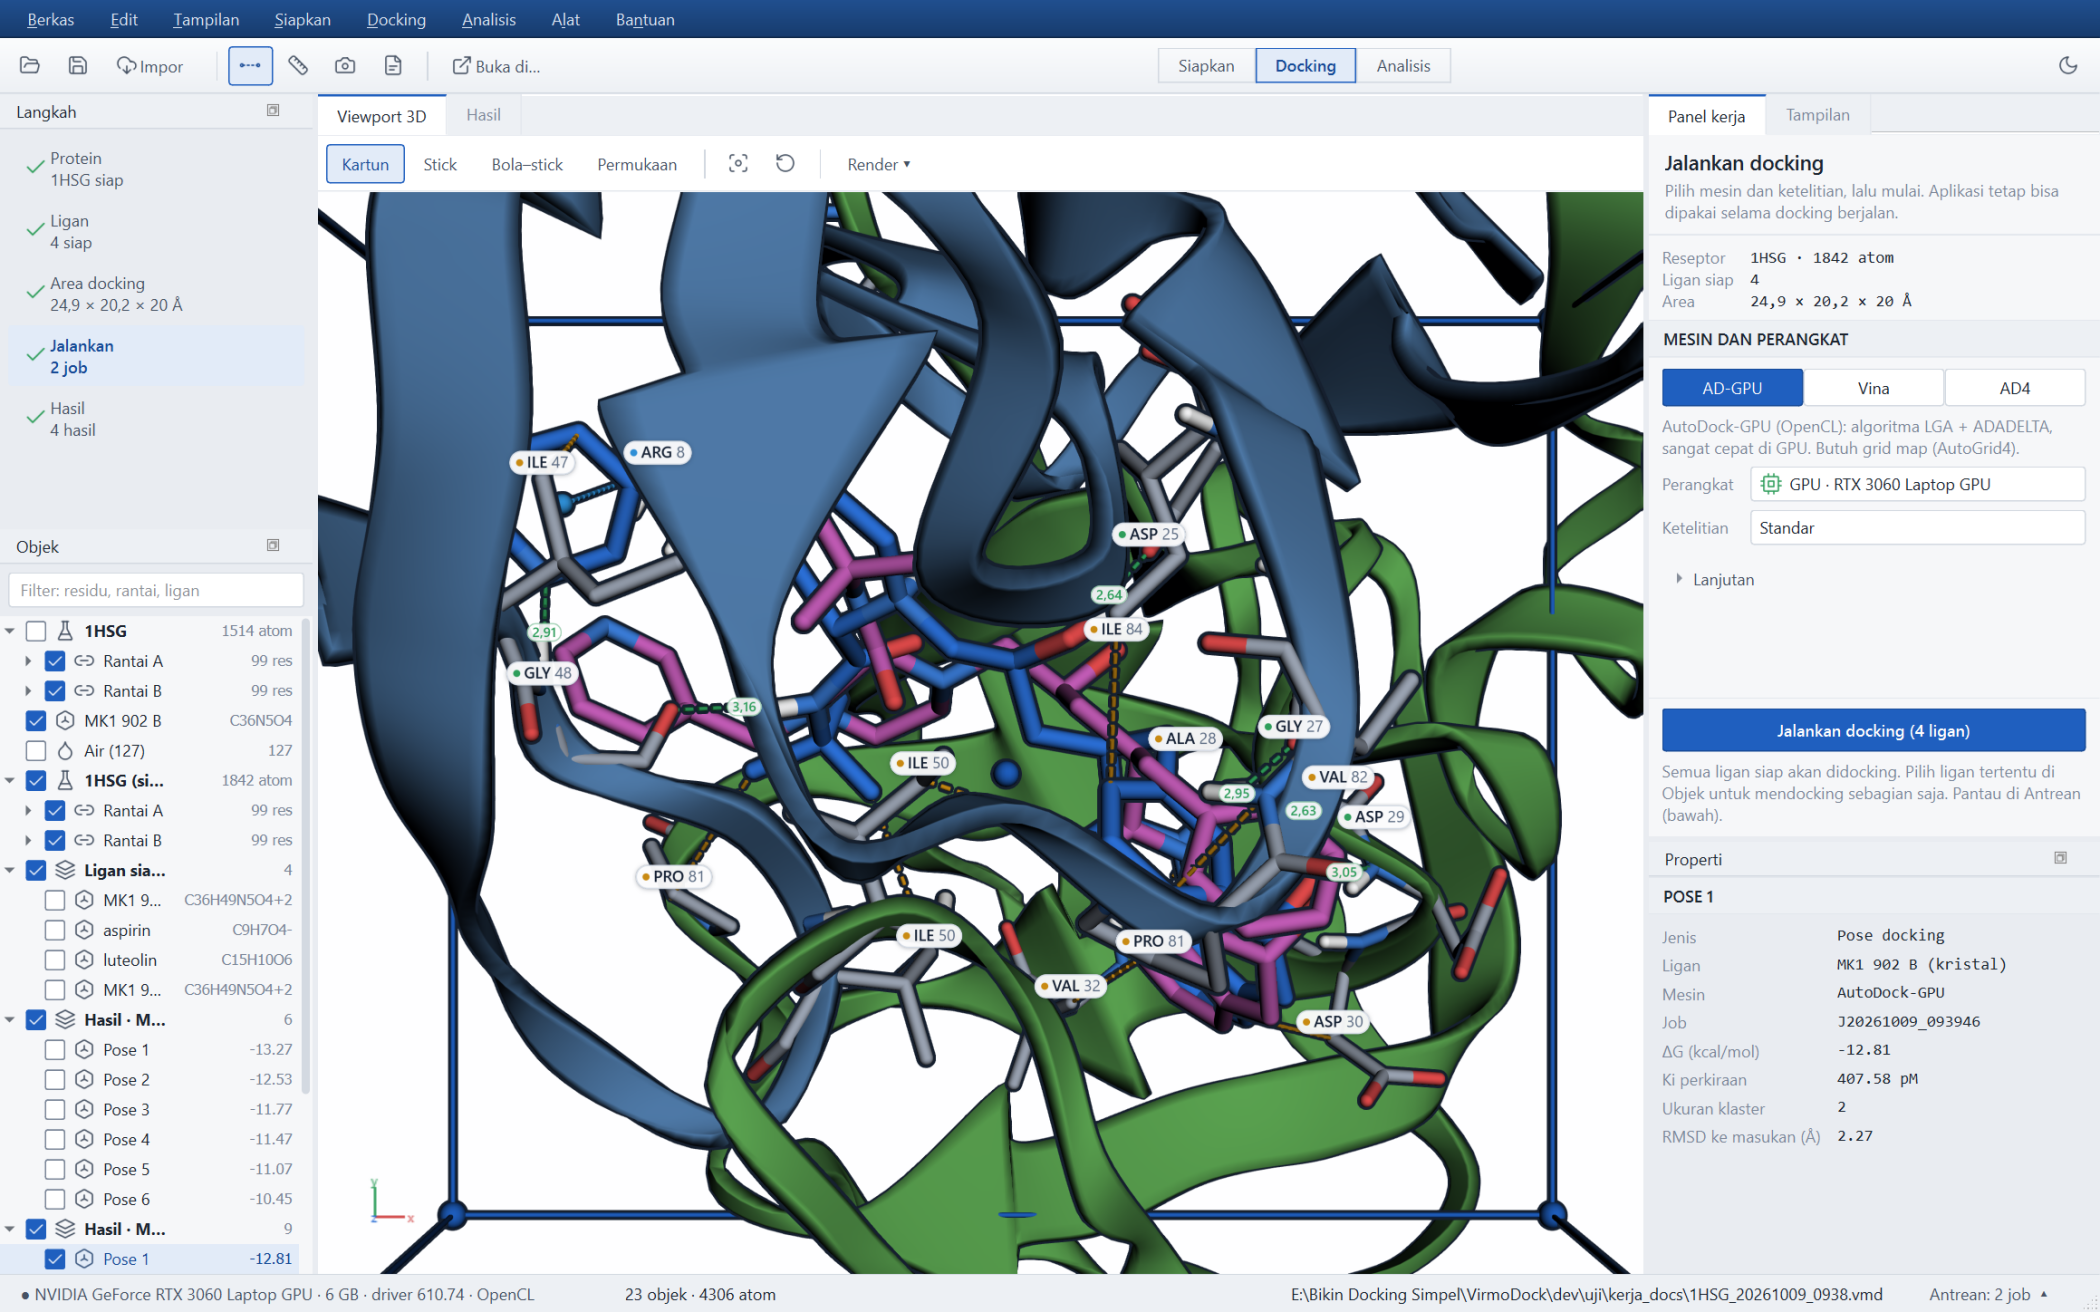
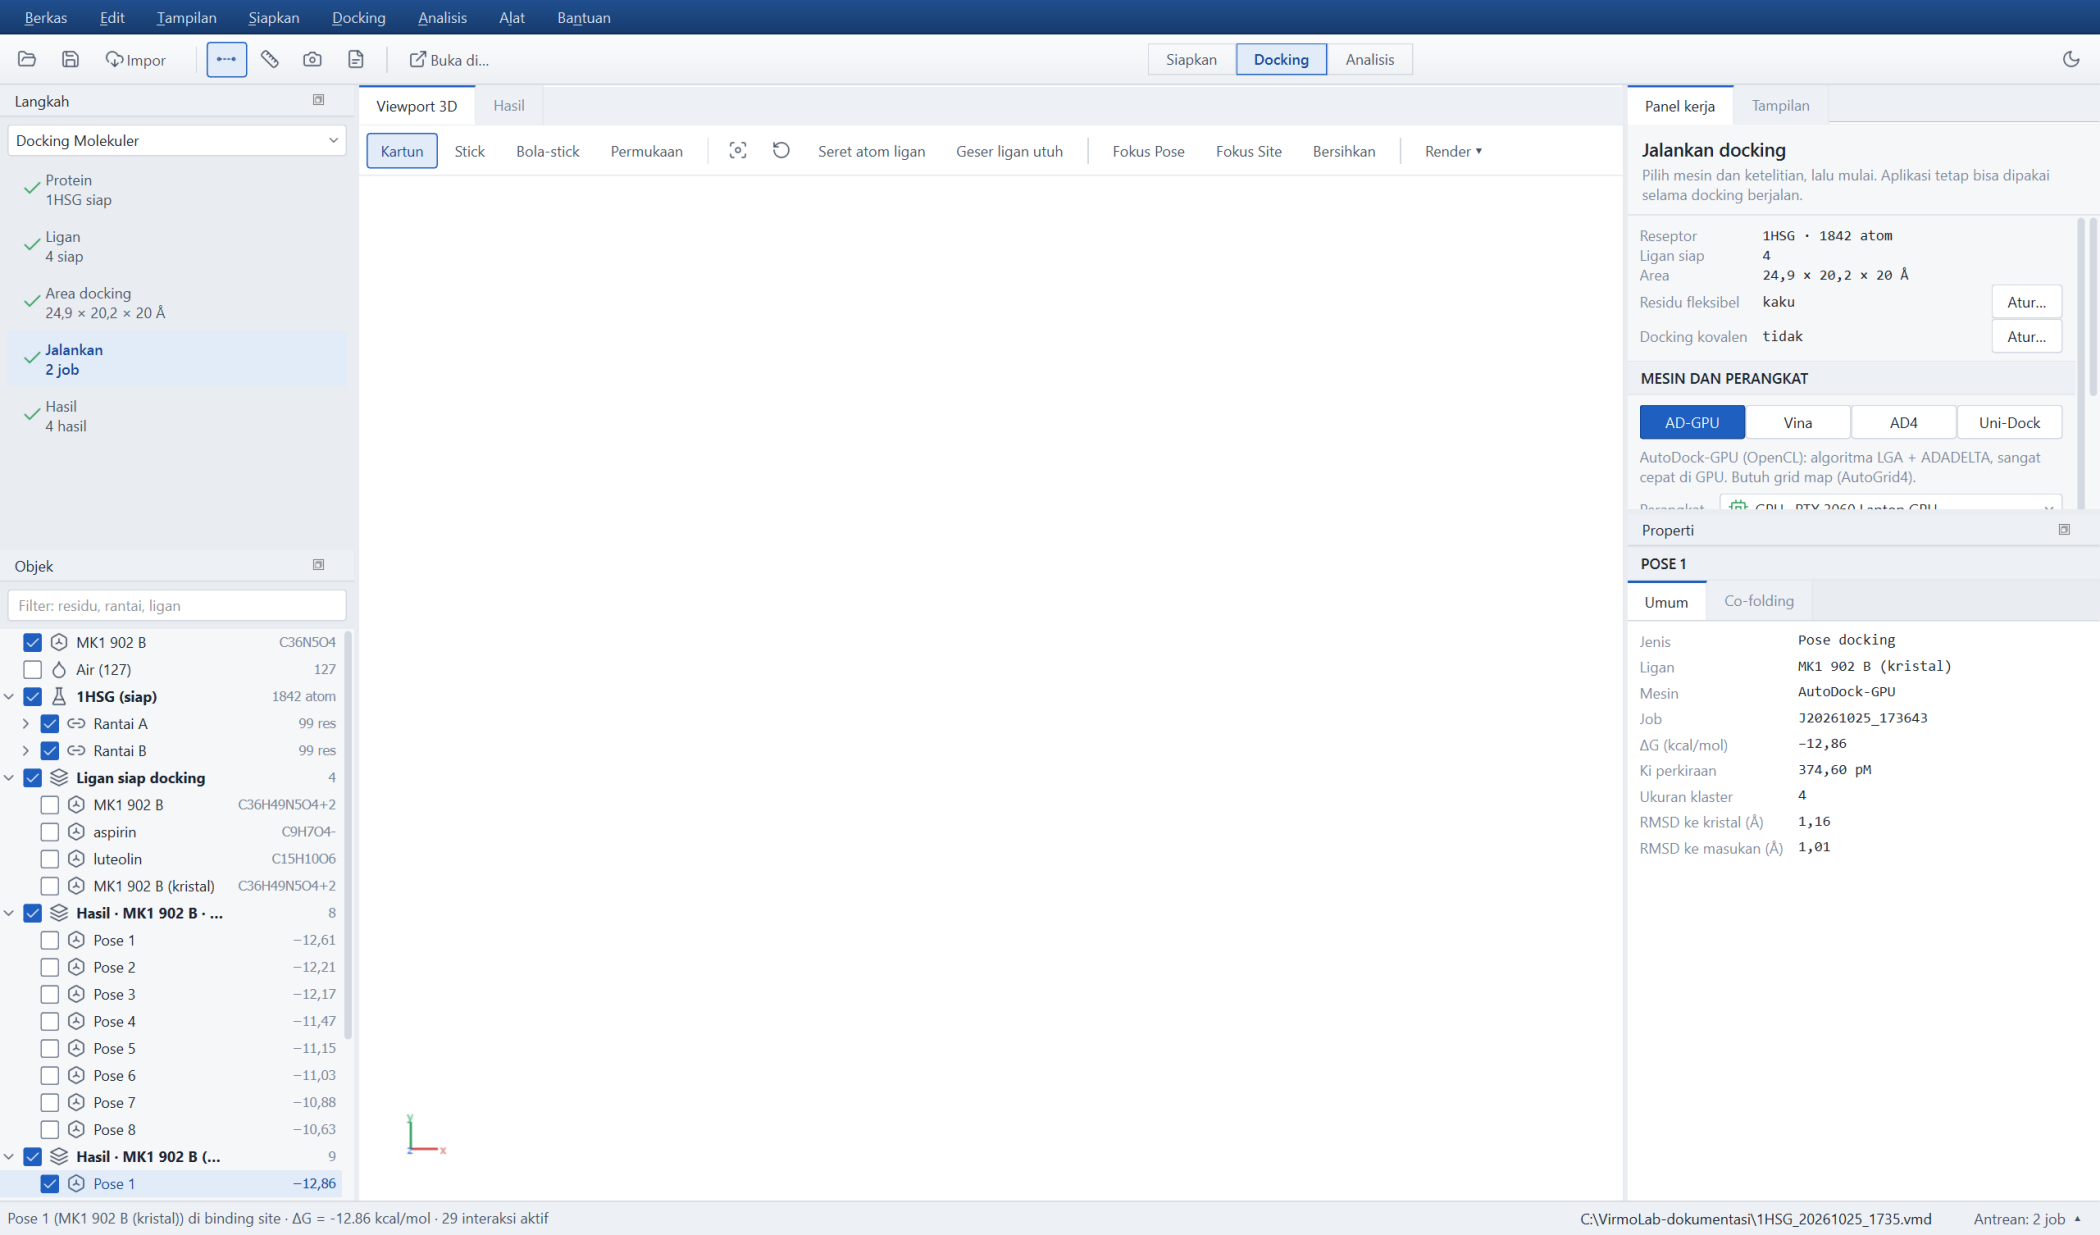
docs(gambar): tangkapan layar dokumentasi tanpa jejak folder pengembangan
Gambar di docs/gambar ikut dibundel ke installer dan dipakai di README
publik. Yang lama memperlihatkan jalur proyek
E:\Bikin Docking Simpel\VirmoDock\dev\uji\... di bilah status dan panel
Properti, dan t04_laporan.png (dipakai di tutorial PDF) masih berupa
laporan bernama program lama dari Oktober lalu.

- dev/buat_screenshot.py memakai folder kerja netral C:\VirmoLab-dokumentasi,
  menyalin struktur contoh ke sana, memaksa mode pengguna bawaan (mode ahli
  pengembang menyembunyikan panel Langkah), melebarkan jendela ke 1600×950
  supaya kolom nama ligan tidak terpotong sesudah kolom GNINA/MM-GBSA
  muncul, dan menunggu deteksi perangkat selesai sebelum membuka wizard.
- dev/buat_screenshot_tutorial.py mengikuti perlakuan yang sama.
- dev/buat_screenshot_laporan.py baru: membuat laporan PDF sungguhan dari
  proyek dokumentasi lalu merender halaman pertamanya dengan QtPdf.
- Kedua skrip memulihkan folder kerja dan mode pengguna lewat atexit, jadi
  pengaturan pengguna tidak tertinggal berubah bila skrip gagal di tengah.

diff --git a/dev/buat_screenshot.py b/dev/buat_screenshot.py
@@ -2,6 +2,7 @@
 
   PYTHONIOENCODING=utf-8 PYTHONPATH=. .venv/Scripts/python.exe dev/buat_screenshot.py
 """
+import atexit
 import shutil
 import sys
 from pathlib import Path
@@ -9,12 +10,20 @@ from pathlib import Path
 from PySide6.QtCore import QSettings, Qt, QTimer
 
 sys.argv = [sys.argv[0]]
-KERJA = Path("dev/uji/kerja_docs").resolve()
+# Folder kerja di luar repo: jalur proyek ikut terlihat di bilah status dan panel Properti, dan tangkapan layar ini
+# dibundel ke installer serta dipakai di README publik — jangan memperlihatkan jalur folder pengembangan.
+KERJA = Path("C:/VirmoLab-dokumentasi").resolve()
 shutil.rmtree(KERJA, ignore_errors=True)
-KERJA.mkdir(parents=True)
+(KERJA / "contoh").mkdir(parents=True)
+SUMBER = KERJA / "contoh" / "1HSG.pdb"          # jalur sumber ikut tampil di panel Properti
+shutil.copyfile(Path("dev/uji/1HSG.pdb"), SUMBER)
 OUT = Path("docs/gambar").resolve()
 OUT.mkdir(parents=True, exist_ok=True)
 st = QSettings("VirmoLab", "VirmoLab")
+KERJA_LAMA = st.value("folder_kerja", "")
+MODE_LAMA = st.value("mode_pengguna", "")
+# Dokumentasi memperlihatkan tampilan bawaan (panel Langkah tampak), bukan mode ahli yang mungkin dipakai pengembang
+st.setValue("mode_pengguna", "pemula")
 for k in ("layout", "layout_v2", "sesi_terbuka", "geometri", "kolom_hasil", "proyek_terakhir"):
     st.remove(k)
 st.setValue("wizard_selesai", True)
@@ -48,21 +57,26 @@ def hook():
     class U(mainwindow.JendelaUtama):
         def __init__(s):
             super().__init__()
-            s.resize(1440, 900)
+            s.resize(1600, 950)          # cukup lebar agar kolom nama ligan di tabel Hasil tidak terpotong
             s.move(30, 30)
             s.n = 0
             s.pelaksana.jobSelesai.connect(s._job)
             QTimer.singleShot(3000, s.l0)
             QTimer.singleShot(600000, lambda: (print("TIMEOUT"), QApplication.quit()))
 
-        def l0(s):
+        def l0(s, sisa=40):
+            if s.env is None:          # deteksi GPU berjalan di thread latar; Wizard butuh hasilnya
+                if sisa:
+                    QTimer.singleShot(500, lambda: s.l0(sisa - 1))
+                    return
+                raise RuntimeError("Deteksi perangkat tidak selesai; tangkapan layar dibatalkan.")
             w = Wizard(s.env, str(KERJA), s)
             w.show()
             QTimer.singleShot(600, lambda: (simpan(w, "01_wizard"), w.reject(),
                                             QTimer.singleShot(800, lambda: (simpan(s, "00_sambutan"), s.l1()))))
 
         def l1(s):
-            s.impor([str(Path("dev/uji/1HSG.pdb").resolve())])
+            s.impor([str(SUMBER)])
             QTimer.singleShot(4000, lambda: (simpan(s, "02_impor"), s.l2()))
 
         def l2(s):
@@ -179,10 +193,27 @@ def hook():
             s.atur_ruang("siapkan")
             s.terapkan_tema("gelap")
             s.tab_tengah.setCurrentWidget(s.w_view)
-            QTimer.singleShot(2500, lambda: (simpan(s, "15_gelap"), s.terapkan_tema("terang"), QApplication.quit()))
+            QTimer.singleShot(2500, lambda: (simpan(s, "15_gelap"), s.terapkan_tema("terang"), pulih(), QApplication.quit()))
 
     mainwindow.JendelaUtama = U
     A.main()
+
+
+def pulih():
+    """Folder kerja pengguna dikembalikan: skrip ini mengubahnya di pengaturan nyata."""
+    st2 = QSettings("VirmoLab", "VirmoLab")
+    if KERJA_LAMA:
+        st2.setValue("folder_kerja", KERJA_LAMA)
+    else:
+        st2.remove("folder_kerja")
+    if MODE_LAMA:
+        st2.setValue("mode_pengguna", MODE_LAMA)
+    else:
+        st2.remove("mode_pengguna")
+    st2.sync()
+
+
+atexit.register(pulih)
 
 
 hook()

diff --git a/dev/buat_screenshot_laporan.py b/dev/buat_screenshot_laporan.py
@@ -1,0 +1,95 @@
+"""Tangkapan halaman pertama laporan PDF untuk tutorial: docs/gambar/t04_laporan.png.
+
+Gambar lama dibuat manual pada Oktober 2026 dan masih memperlihatkan nama lama program serta jalur folder
+pengembangan; berkas ini ikut tutorial PDF di dalam installer. Skrip ini membuat laporan sungguhan dari proyek
+dokumentasi (dibuat dev/buat_screenshot.py di C:/VirmoLab-dokumentasi), lalu merender halaman pertamanya.
+
+  PYTHONIOENCODING=utf-8 PYTHONPATH=. .venv/Scripts/python.exe dev/buat_screenshot_laporan.py
+"""
+import sys
+from pathlib import Path
+
+from PySide6.QtCore import QSettings, QTimer
+
+sys.argv = [sys.argv[0]]
+KERJA = Path("C:/VirmoLab-dokumentasi")
+OUT = Path("docs/gambar").resolve()
+PDF = KERJA / "laporan_dokumentasi.pdf"
+proyek = sorted(KERJA.glob("*.vmd"))
+if not proyek:
+    raise SystemExit(f"Tidak ada proyek di {KERJA}; jalankan dev/buat_screenshot.py dulu.")
+
+st = QSettings("VirmoLab", "VirmoLab")
+MODE_LAMA = st.value("mode_pengguna", "")
+for k in ("layout", "layout_v2", "sesi_terbuka", "geometri"):
+    st.remove(k)
+st.setValue("wizard_selesai", True)
+st.setValue("tema", "terang")
+st.setValue("mode_pengguna", "pemula")
+
+import virmolab.app as A                                              # noqa: E402
+from PySide6.QtGui import QDesktopServices                            # noqa: E402
+from PySide6.QtWidgets import QApplication                            # noqa: E402
+
+QDesktopServices.openUrl = staticmethod(lambda *a, **k: True)         # jangan membuka PDF di penampil luar
+
+
+def render_halaman_satu():
+    from PySide6.QtPdf import QPdfDocument
+    d = QPdfDocument()
+    d.load(str(PDF))
+    for _ in range(100):                     # pemuatan PDF berjalan asinkron
+        if d.status() == QPdfDocument.Status.Ready:
+            break
+        QApplication.processEvents()
+    uk = d.pagePointSize(0)
+    lebar = 1400
+    img = d.render(0, (uk * (lebar / uk.width())).toSize())
+    img.save(str(OUT / "t04_laporan.png"))
+    print("gambar t04_laporan", img.width(), img.height(), flush=True)
+
+
+def hook():
+    from virmolab.ui import mainwindow
+
+    class U(mainwindow.JendelaUtama):
+        def __init__(s):
+            super().__init__()
+            s.resize(1600, 950)
+            s._path = lambda *a, **k: str(PDF)          # ganti dialog "Simpan sebagai"
+            QTimer.singleShot(2500, s.l1)
+            QTimer.singleShot(300000, lambda: (print("TIMEOUT"), QApplication.quit()))
+
+        def l1(s):
+            s.buka_proyek(str(proyek[-1]))
+            QTimer.singleShot(6000, s.l2)
+
+        def l2(s):
+            PDF.unlink(missing_ok=True)
+            s._ekspor_laporan({"jenis": "laporan", "penulis": "", "gambar": True, "fmt": "pdf"})
+            s.l3()
+
+        def l3(s, sisa=120):
+            if PDF.exists() and PDF.stat().st_size > 50_000:
+                QTimer.singleShot(1500, s.l4)           # beri waktu penulisan selesai
+                return
+            if not sisa:
+                print("GAGAL: laporan PDF tidak terbentuk", flush=True)
+                QApplication.quit()
+                return
+            QTimer.singleShot(500, lambda: s.l3(sisa - 1))
+
+        def l4(s):
+            render_halaman_satu()
+            if MODE_LAMA:
+                st.setValue("mode_pengguna", MODE_LAMA)
+            else:
+                st.remove("mode_pengguna")
+            st.sync()
+            QApplication.quit()
+
+    mainwindow.JendelaUtama = U
+    A.main()
+
+
+hook()

diff --git a/dev/buat_screenshot_tutorial.py b/dev/buat_screenshot_tutorial.py
@@ -1,4 +1,6 @@
 """Tangkapan tambahan untuk tutorial PDF (grab jendela/dialog saja). Hasil: docs/gambar/t*.png"""
+import atexit
+import shutil
 import sys
 from pathlib import Path
 
@@ -6,11 +8,21 @@ from PySide6.QtCore import QSettings, Qt, QTimer
 
 sys.argv = [sys.argv[0]]
 OUT = Path("docs/gambar").resolve()
+# Tangkapan ini ikut tutorial PDF di dalam installer: jalur proyek dan sumber tidak boleh memperlihatkan folder
+# pengembangan, dan tampilannya harus seperti pemasangan baru (bukan mode ahli pengembang).
+KERJA = Path("C:/VirmoLab-dokumentasi")
+(KERJA / "contoh").mkdir(parents=True, exist_ok=True)
+SUMBER = KERJA / "contoh" / "1HSG.pdb"
+shutil.copyfile(Path("dev/uji/1HSG.pdb"), SUMBER)
 st = QSettings("VirmoLab", "VirmoLab")
+KERJA_LAMA = st.value("folder_kerja", "")
+MODE_LAMA = st.value("mode_pengguna", "")
 for k in ("layout", "layout_v2", "sesi_terbuka", "geometri"):
     st.remove(k)
 st.setValue("wizard_selesai", True)
 st.setValue("tema", "terang")
+st.setValue("folder_kerja", str(KERJA))
+st.setValue("mode_pengguna", "pemula")
 
 import virmolab.app as A
 from PySide6.QtWidgets import QApplication
@@ -31,7 +43,7 @@ def hook():
     class U(mainwindow.JendelaUtama):
         def __init__(s):
             super().__init__()
-            s.resize(1440, 900)
+            s.resize(1600, 950)
             s.move(30, 30)
             QTimer.singleShot(2500, s.l1)
             QTimer.singleShot(120000, lambda: (print("TIMEOUT"), QApplication.quit()))
@@ -46,7 +58,7 @@ def hook():
                                                                             s.l2()))))
 
         def l2(s):
-            s.impor([str(Path("dev/uji/1HSG.pdb").resolve())])
+            s.impor([str(SUMBER)])
             QTimer.singleShot(3500, s.l3)
 
         def l3(s):
@@ -57,10 +69,24 @@ def hook():
             g = dict(prot.gaya, permukaan={"type": "ses", "color": {"mode": "hydro"}, "opacity": 0.85, "mesh": False})
             s.ubah_gaya(prot.id, g)
             s.tampilan.muat(prot)
-            QTimer.singleShot(6000, lambda: (simpan(s, "t03_permukaan"), QApplication.quit()))
+            QTimer.singleShot(6000, lambda: (simpan(s, "t03_permukaan"), pulih(), QApplication.quit()))
 
     mainwindow.JendelaUtama = U
     A.main()
+
+
+def pulih():
+    """Pengaturan pengguna dikembalikan: skrip ini mengubah folder kerja dan mode pengguna yang sebenarnya."""
+    st2 = QSettings("VirmoLab", "VirmoLab")
+    for kunci, lama in (("folder_kerja", KERJA_LAMA), ("mode_pengguna", MODE_LAMA)):
+        if lama:
+            st2.setValue(kunci, lama)
+        else:
+            st2.remove(kunci)
+    st2.sync()
+
+
+atexit.register(pulih)
 
 
 hook()
